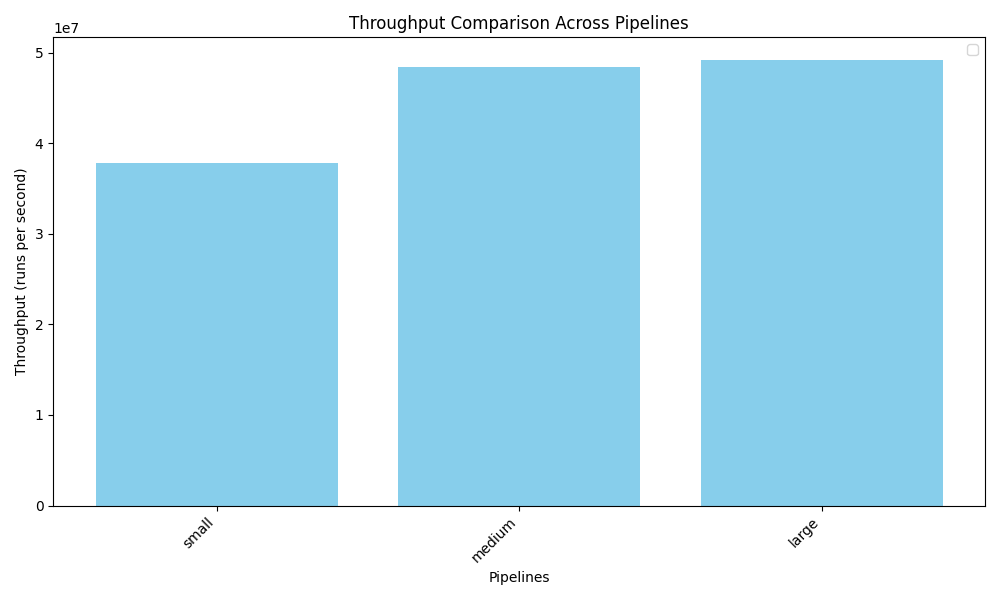
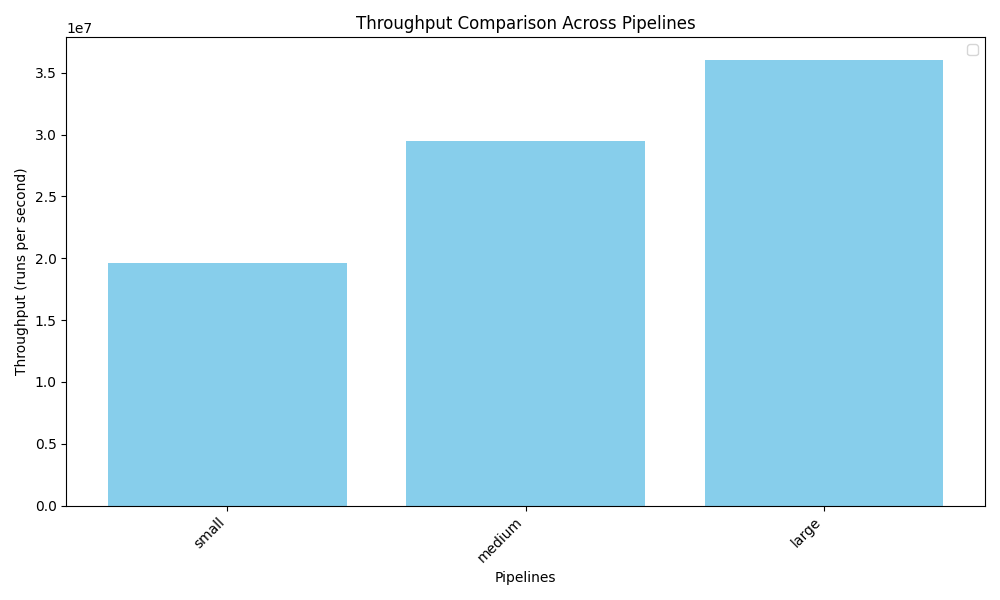
10-9-2025

diff --git a/part2.py b/part2.py
@@ -12,6 +12,8 @@ to report which one is faster.
 import part1
 import time
 import matplotlib.pyplot as plt
+import pandas as pd
+import os
 
 """
 === Questions 1-5: Throughput and Latency Helpers ===
@@ -346,18 +348,26 @@ See if you can compute this using Pandas functions only.
 def load_input(filename):
     # Return a dataframe containing the population data
     # **Clean the data here**
-    raise NotImplementedError
+    pop_df = pd.read_csv(filename)
+    pop_df = pop_df[pop_df["Entity"] != "OWID_WRL"]
+    pop_df = pop_df[~pop_df["Entity"].isin(["North America", "South America", "Africa", "Antarctica", "Europe", "Australia", "Asia"])]
+    return pop_df
 
 def population_pipeline(df):
     # Input: the dataframe from load_input()
-    # Return a list of min, median, max, mean, and standard deviation
-    raise NotImplementedError
+    return [df.describe().loc["min"]["Population (historical)"],
+            df.describe().loc["50%"]["Population (historical)"],
+            df.describe().loc["max"]["Population (historical)"],
+            df.describe().loc["mean"]["Population (historical)"],
+            df.describe().loc["std"]["Population (historical)"]]
 
 def q6():
     # As your answer to this part,
+    df = load_input("data/population.csv")
     # call load_input() and then population_pipeline()
+    result = population_pipeline(df)
     # Return a list of min, median, max, mean, and standard deviation
-    raise NotImplementedError
+    return result
 
 """
 7. Varying the input size
@@ -385,17 +395,32 @@ The input CSV file will have 600 rows, but the DataFrame (after your cleaning) m
 """
 
 def load_input_small():
-    raise NotImplementedError
+    df = load_input("data/population.csv")
+    if os.path.exists("data/population-small.csv"):
+        df = load_input("data/population-small.csv")
+    else:
+        df = df.head(600)
+    return df
 
 def load_input_medium():
-    raise NotImplementedError
+    df = load_input("data/population.csv")
+    if os.path.exists("data/population-medium.csv"):
+        df = load_input("data/population-medium.csv")
+    else:
+        df = df.head(6000)
+    return df
 
 def load_input_large():
-    raise NotImplementedError
+    df = load_input("data/population.csv")
+    return df
 
 def load_input_single_row():
-    # This is the pipeline we will use for latency.
-    raise NotImplementedError
+    df = load_input("data/population.csv")
+    if os.path.exists("data/population-single-row.csv"):
+        df = load_input("data/population-single-row.csv")
+    else:
+        df = df.head(1)
+    return df
 
 def q7():
     # Don't modify this part
@@ -427,16 +452,21 @@ that you think is meaningful.
 """
 
 def baseline_small():
-    raise NotImplementedError
+    df = load_input_small()
+    return population_pipeline(df)
 
 def baseline_medium():
-    raise NotImplementedError
+    df = load_input_medium()
+    return population_pipeline(df)
 
 def baseline_large():
-    raise NotImplementedError
+    df = load_input_large()
+    return population_pipeline(df)
 
 def baseline_latency():
-    raise NotImplementedError
+    df = load_input("data/population.csv")
+    df = df.head(2)
+    return population_pipeline(df)
 
 def q8():
     # Don't modify this part
